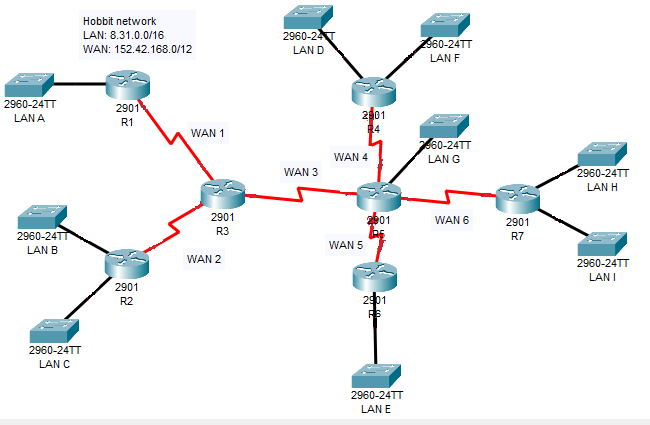
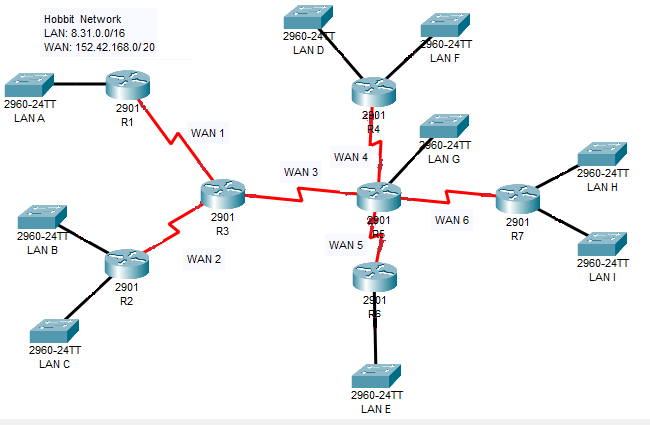
04-changed-network-adressing

Changed region(s): [[0.0615, 0.0306, 0.3077, 0.1224]]

diff --git a/README.md b/README.md
@@ -1,5 +1,5 @@
 # CCNA in the world of the Lord of the Rings
-Hobbits create computer network in the Shire. Create a table that contains the network address, host ranges, and broadcast address and subnet mask. Create a network diagram with subnetting. The initial LAN 8.31.0.0/16 address is and the initial WAN is 152.42.168.0/12.  
+Hobbits create computer network in the Shire. Create a table that contains the network address, host ranges, and broadcast address and subnet mask. Create a network diagram with subnetting. The initial LAN 8.31.0.0/16 address is and the initial WAN is 152.42.168.0/20.  
   
 Required number of devices in networks:  
 ![alt text](./assets/network1.png)  
